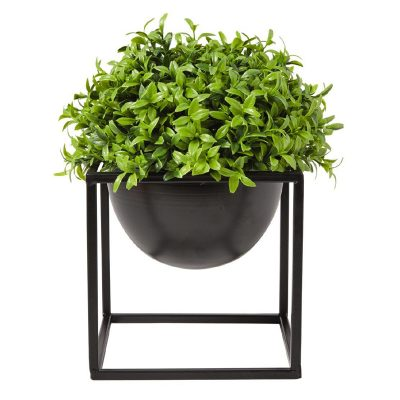
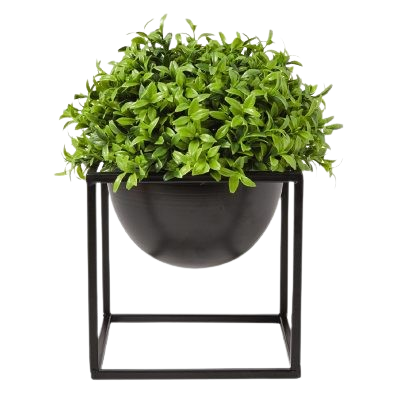
add fonts, images and styles

diff --git a/styles/style.css b/styles/style.css
@@ -1,161 +1,144 @@
-
-.body{
-  align-content: center;
+.container{
+    display: flex;
+    align-items: center;
+    flex-direction: column;
+    gap: 138px;
+    margin-top: 121px;
+    margin-bottom: 68px;
 }
 
-.container {
-  margin: 171px 105px 82px 135px;
-  display: flex;
-  gap: 50px;
-}
-
-
-.sidebar{
-  display: flex;
-  flex-direction: column;
-  width: 310px;
-}
-
-.categories {
-  padding: 14px 18px;
-  background: #FBFBFB;
-
-}
-
-.categories > span{
-    color: #3D3D3D;
-    font-family: "Cera Pro Medium";
-    font-size: 18px;
+.top-row{
+    display: flex;
+    flex-direction: row;
 }
 
 .list{
-    padding-left: 12px;
-    margin-bottom: 340px;
+    display: flex;
+    gap: 28px;
 }
 
-.list_item{
+.list-item{
+    display: flex;
+    align-items: center;
+    padding-right: 30px;
+    background: #FBFBFB;
+}
+
+
+.list-item > img{
+    position: relative;
+    top: -52px;
+}
+
+.text{
+    display: flex;
+    flex-direction: column;
+    align-items: flex-end;
+    gap: 9px;
+}
+
+.text > p{
     color: #3D3D3D;
+    text-align: right;
+    font-family: "Cera Pro Bold";
+    font-size: 18px;
+    text-transform: uppercase;
+}
+
+.text > span{
+    color: #727272;
+    text-align: right;
     font-family: "Cera Pro Regular";
-    font-size: 15px;
-    line-height: 40px;
+    font-size: 14px;
+    margin-bottom: 14px;
+}
+
+.btn{
+    display: flex;
+    align-items: center;
+    border-radius: 6px;
+    background: #46A358;
+    padding: 11px 28px;
+}
+
+.btn > p{
+    color: #FFF;
+    font-family: "Cera Pro Medium";
+    font-size: 14px;
+    padding-right: 3px;
+}
+
+.btn > img{
+    position: relative;
+    bottom: -2px;
+}
+
+.bottom-row{
+    display: flex;
+    flex-direction: column;
+    gap: 15px;
+}
+
+.bottom-row > p{
+    color: #3D3D3D;
+    text-align: center;
+    font-family: "Cera Pro Medium";
+    font-size: 30px;
+}
+
+.bottom-row > span{
+    color: #727272;
+    text-align: center;
+    font-family: "Cera Pro Regular";
+    font-size: 14px;
+    margin-bottom: 20px;
+}
+
+.bottom-row-list{
+    display: flex;
+    gap: 44px;
+}
+
+.bottom-row-list-item{
+    display: flex;
+    flex-direction: column;
+    gap: 9px;
+    background: #FBFBFB;
+
+}
+
+.list-span{
+    color: #727272;
+    font-family: "Cera Pro Regular";
+    font-size: 14px;
 }
 
 .active{
     color: #46A358;
-    font-weight: 700;
 }
 
-.sale-banner {
-  height: 470px;
+.bottom-row-list-item > p{
+    color: #3D3D3D;
+    font-family: "Cera Pro Medium";
+    font-size: 20px;
 }
 
-
-.main-content {
-  display: flex;
-  flex-direction: column;
-  gap: 50px;
-  flex-grow: 1;
+.read-more{
+    display: flex;
+    flex-direction: row;
+    align-items: flex-end;
+    gap: 3px;
+    margin-bottom: 13px;
 }
 
-
-.filter-bar{
-  display: flex;
-  justify-content: space-between
+.read-more-text{
+    color: #3D3D3D;
+    font-family: "Cera Pro Medium";
+    font-size: 14px;
 }
 
-.main_list {
-  display: flex;
-  gap: 37px;
-}
-
-.main_list_item{
-  color: #3D3D3D;
-  font-family: "Cera Pro Regular";
-}
-
-.main_active{
-  color: #46A358;
-  font-weight: 700;
-  padding-bottom: 7px;
-  border-bottom: 3px solid #46A358;
-  }
-
-.sort{
-  display: flex;
-  align-items: baseline;
-  gap: 5px;
-}
-
-.sort > span{
-  color: #3D3D3D;
-  font-family: "Cera Pro Regular";
-
-  }
-
-.plants-row{
-  display: flex;
-  flex-wrap: wrap;
-  gap: 33px;
-}
-
-.img_space{
-  width: 258px;
-  height: 300px;
-  padding: 31px 4px 19px 4px;
-  background: #FBFBFB;
-}
-
-.plant-card img {
-  width: 250px;
-}
-
-.plant-card span {
-  color: #3D3D3D;
-  font-family: "Cera Pro Regular";
-}
-
-.plant-card .price {
-  color: #46A358;
-  font-family: "Cera Pro Medium";
-  font-size: 18px;
-}
-
-.page-number-list {
-  display: flex;
-  justify-content: flex-end;
-  margin-top: 60px;
-  gap: 10px;
-}
-
-.page-number-list-item {
-  padding: 9px 14px;
-  border-radius: 4px;
-  border: 1px solid #E5E5E5;
-  display: flex;
-  align-items: center;
-  justify-content: center;
-}
-
-.page-number-active {
-  background: #46A358;
-  border: none;
-}
-
-.number {
-  color: #3D3D3D;
-  font-family: "Cera Pro Regular";
-  font-size: 18px;
-}
-
-.number-active {
-  color: #FFF;
-}
-
-.page-number-list-item img {
-  width: 18px;
-  height: 18px;
-}
-
-.page-number-list-item:last-child{
-  padding: 12px;
+.read-more-text-green{
+    color: #46A358;
+    font-family: "Cera Pro Medium";
+    font-size: 14px;
 }

diff --git a/fonts/stylesheet.css b/fonts/stylesheet.css
@@ -16,3 +16,13 @@
         url('CeraPro-Medium.woff') format('woff'),
         url('CeraPro-Medium.ttf') format('truetype');
 }
+
+@font-face {
+    font-family: 'Cera Pro Bold';
+    src: url('CeraPro-Bold.eot');
+    src: local('Cera Pro Bold'), local('CeraPro-Bold'),
+        url('CeraPro-Bold.eot?#iefix') format('embedded-opentype'),
+        url('CeraPro-Bold.woff') format('woff'),
+        url('CeraPro-Bold.ttf') format('truetype');
+}
+

diff --git a/styles/reset.css b/styles/reset.css
@@ -7,4 +7,4 @@
     box-sizing: border-box;
     font-family: sans-serif;
 
-}
+} 

diff --git a/styles/registration_styles.css b/styles/registration_styles.css
@@ -114,4 +114,4 @@
 .big{
     width: 100%;
     display: block;
-}
+} 
